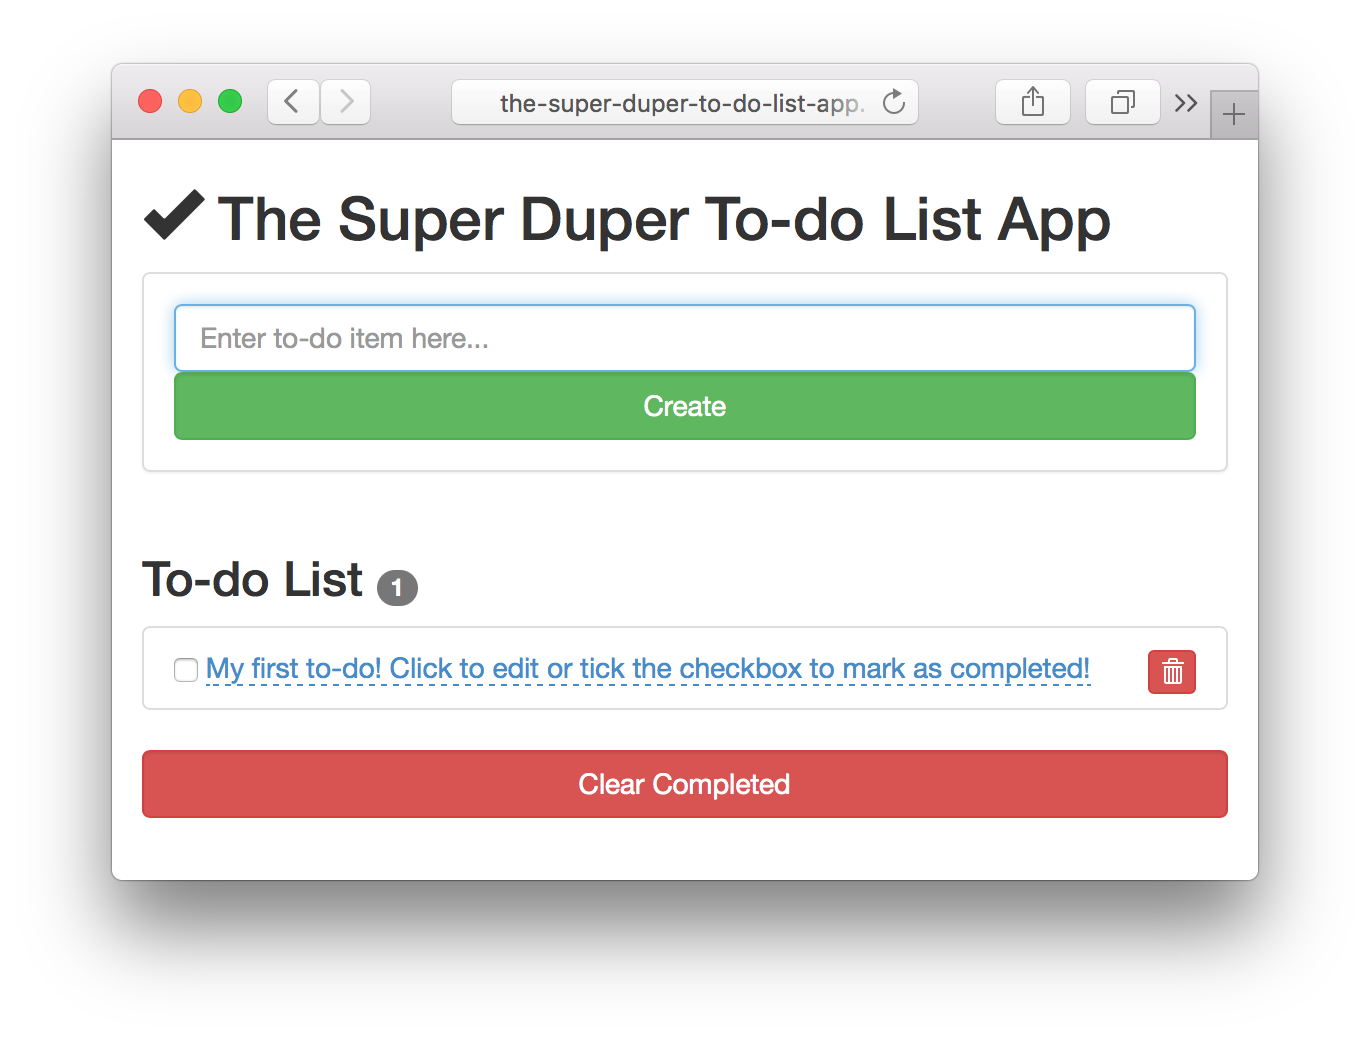
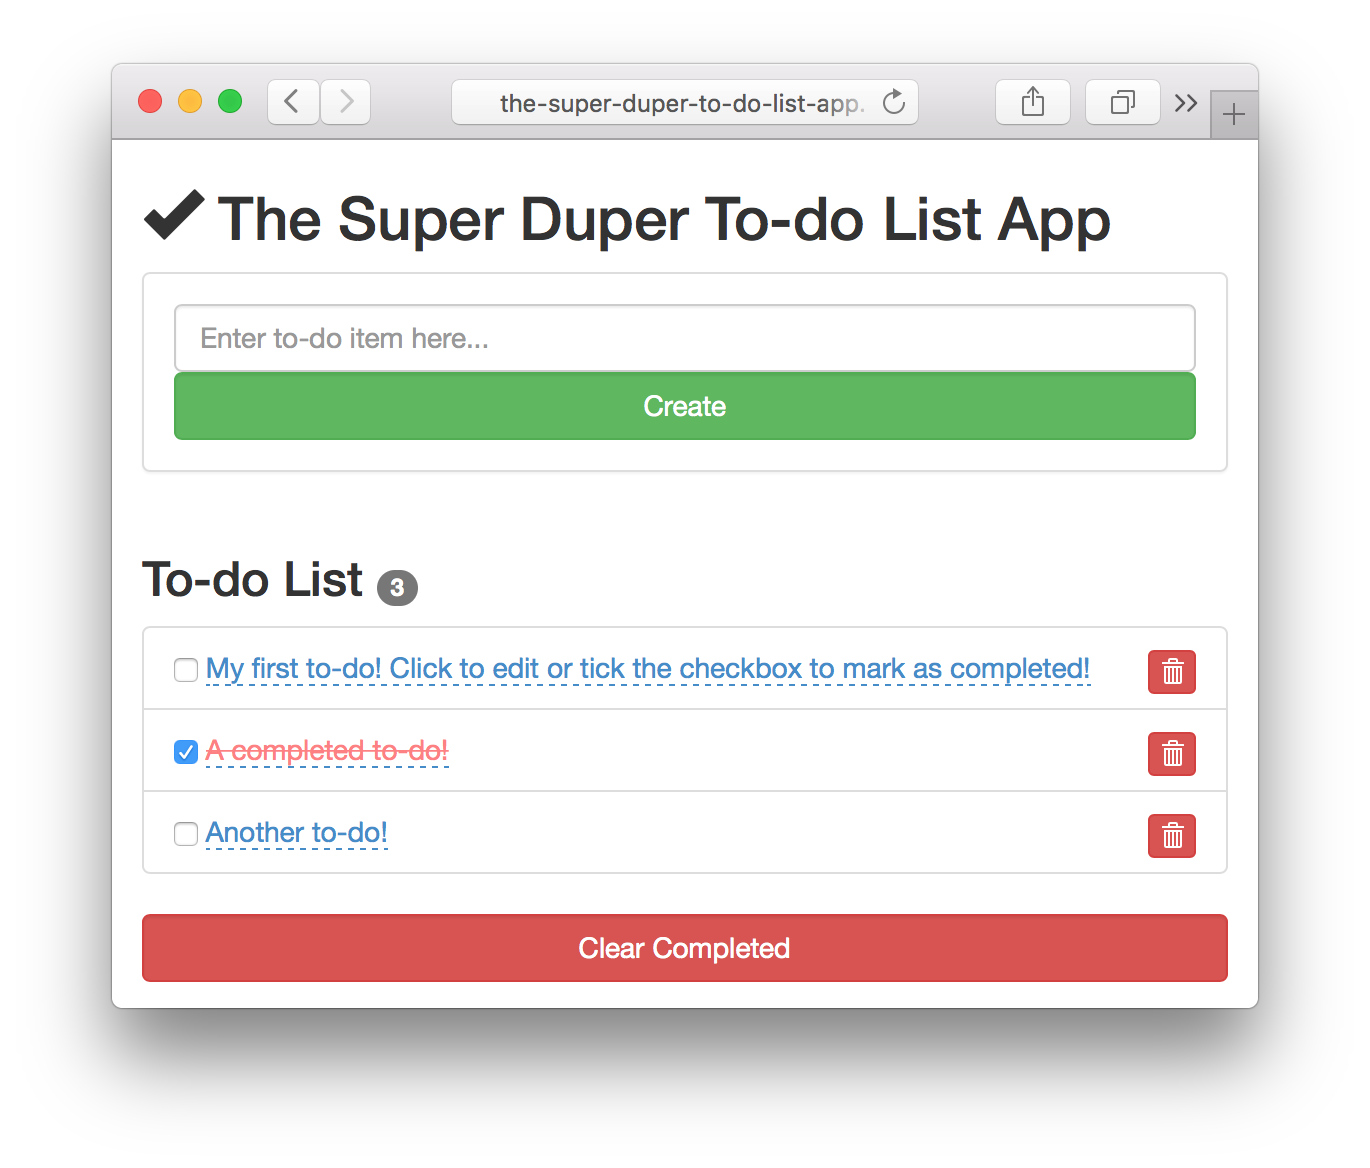
fix bug in index.html and update screenshot in README

diff --git a/index.html b/index.html
@@ -43,7 +43,9 @@
             <li class="list-group-item" ng-repeat="todo in todos">
               <input type="checkbox" ng-model="todo.completed" />
               <span editable-text="todo.title" ng-class="{'completed': todo.completed}">{{ todo.title }}</span>
-              <span class="btn btn-danger btn-xs glyphicon glyphicon-trash pull-right" ng-click="removeToDo()"></span>
+              <span ng-click="removeToDo(todo)">
+                <span class="btn btn-danger btn-xs glyphicon glyphicon-trash pull-right"></span>
+              </span>
             </li>
           </ul>
           <button class="btn form-control btn-danger" ng-click="clearCompleted()">Clear Completed</button>
